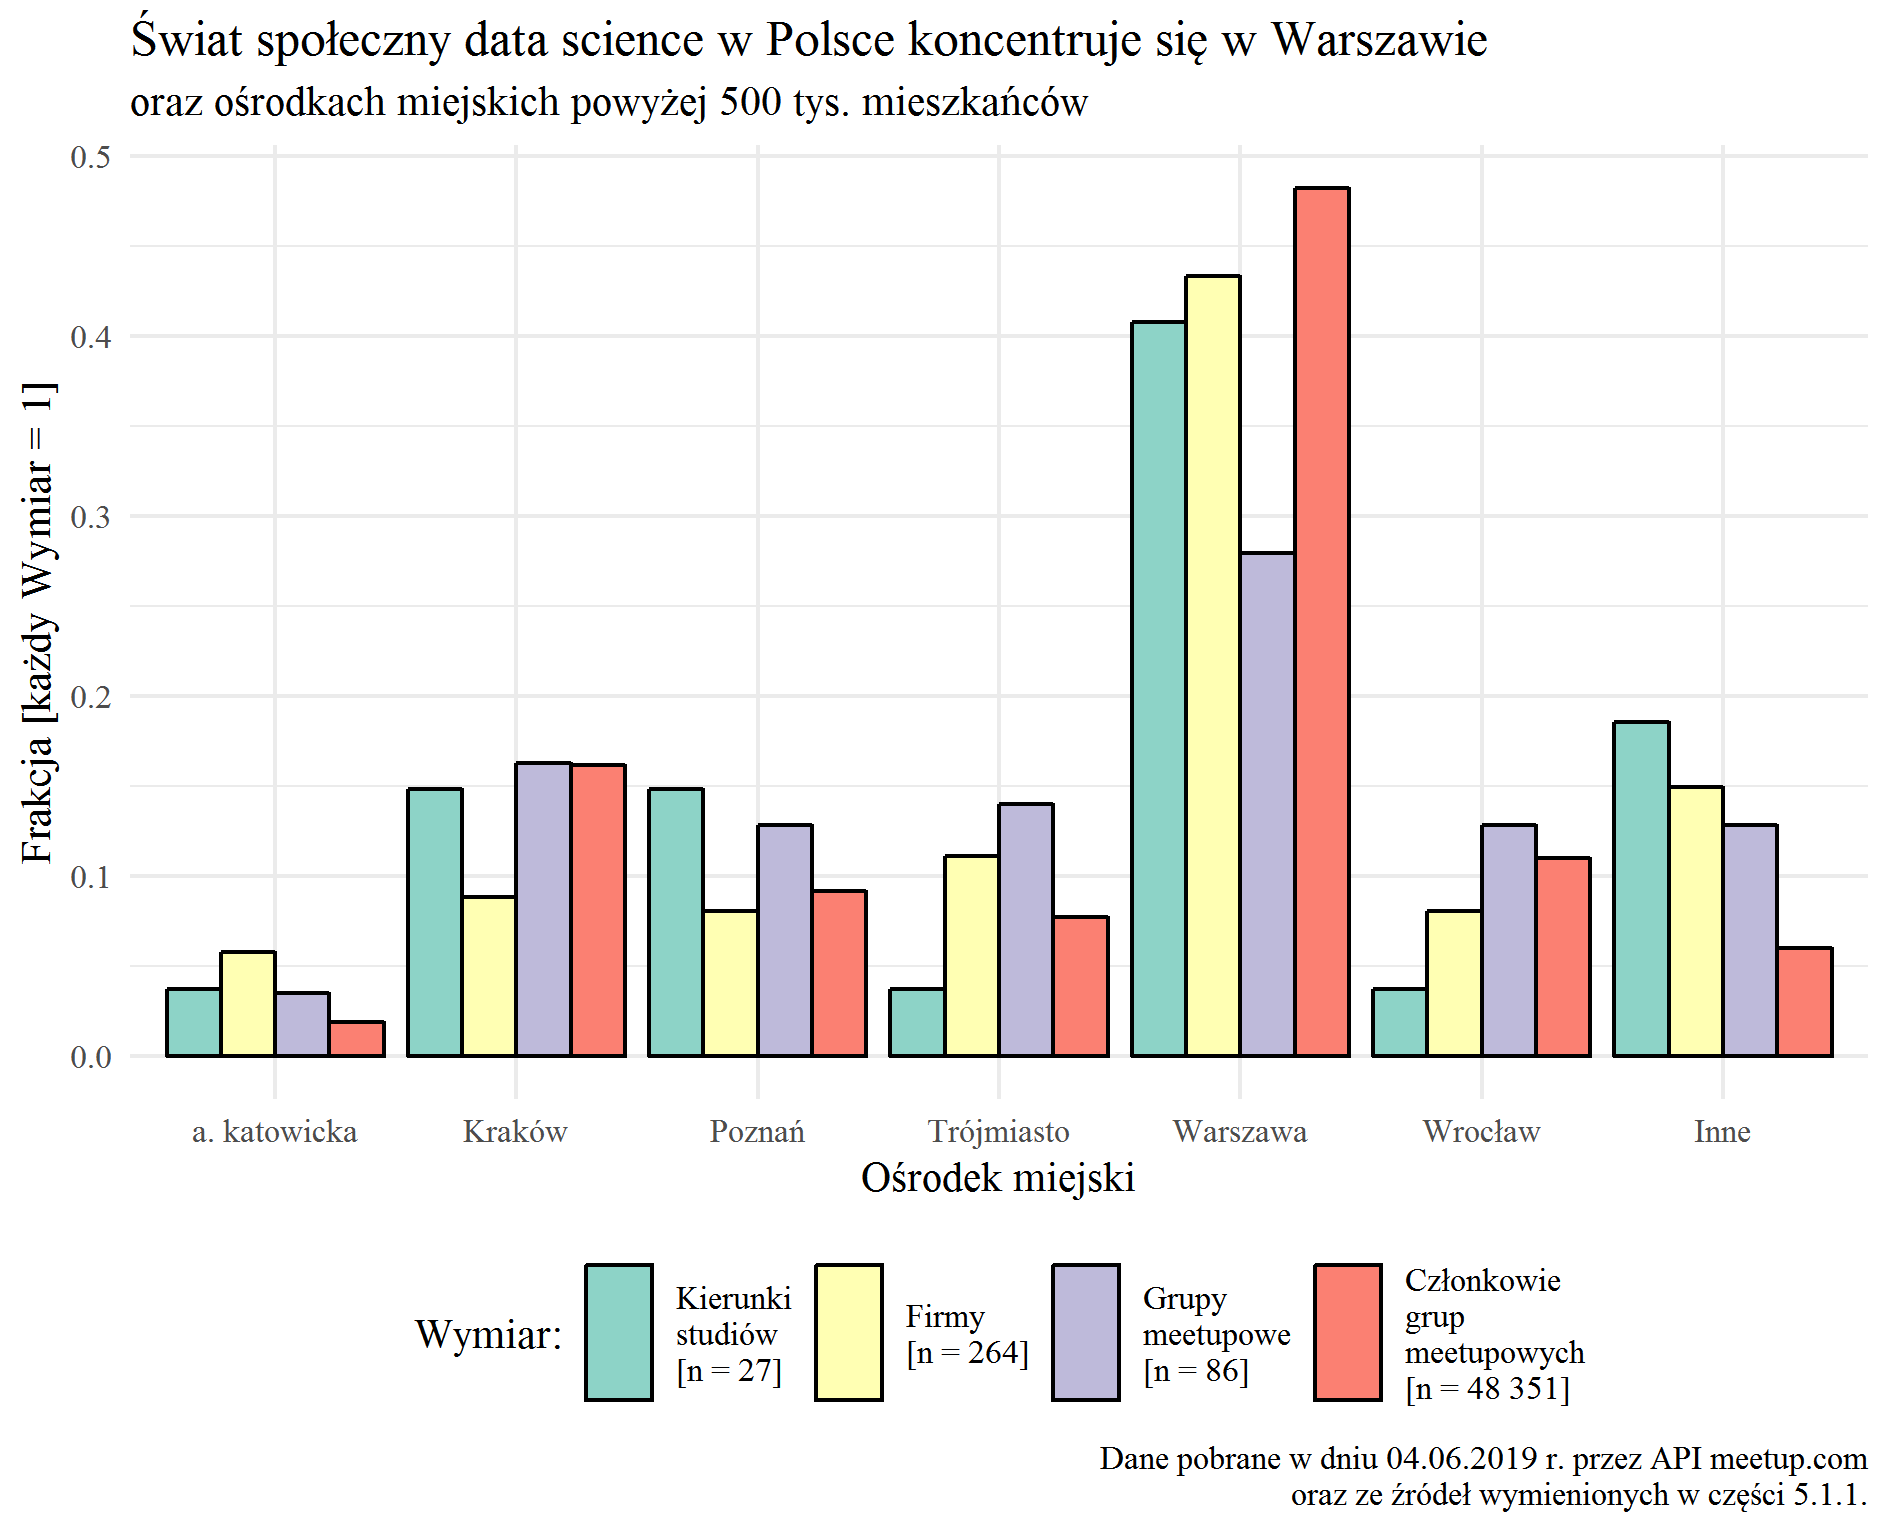
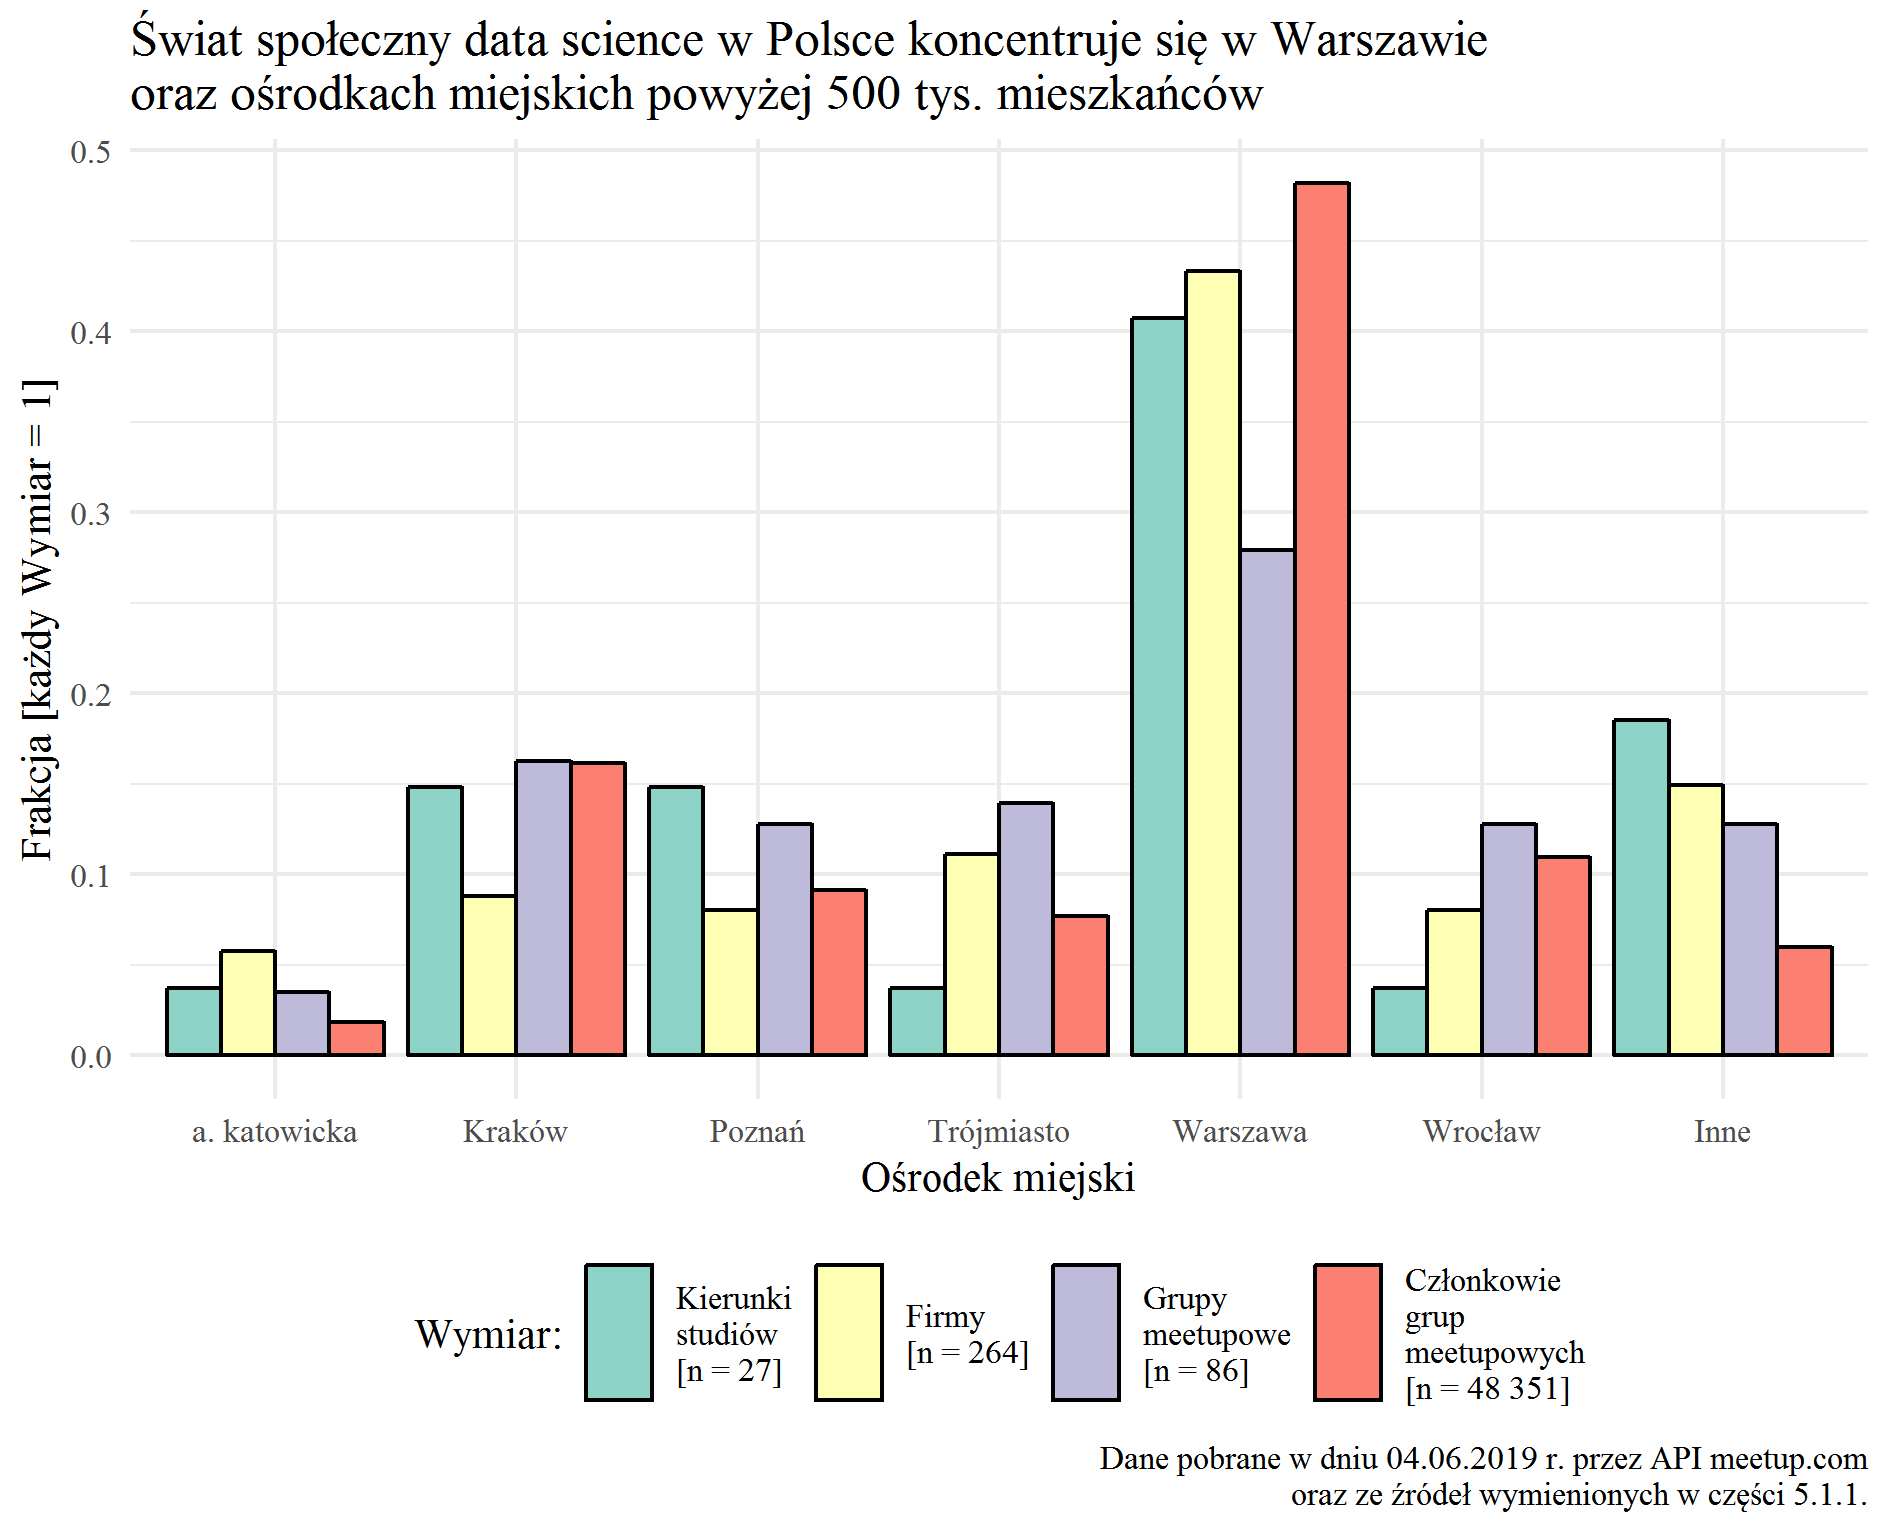
fix titles / subtitles

diff --git a/all_viz.tex b/all_viz.tex
@@ -1,0 +1,267 @@
+\documentclass[]{article}
+\usepackage{lmodern}
+\usepackage{amssymb,amsmath}
+\usepackage{ifxetex,ifluatex}
+\usepackage{fixltx2e} % provides \textsubscript
+\ifnum 0\ifxetex 1\fi\ifluatex 1\fi=0 % if pdftex
+  \usepackage[T1]{fontenc}
+  \usepackage[utf8]{inputenc}
+\else % if luatex or xelatex
+  \ifxetex
+    \usepackage{mathspec}
+  \else
+    \usepackage{fontspec}
+  \fi
+  \defaultfontfeatures{Ligatures=TeX,Scale=MatchLowercase}
+\fi
+% use upquote if available, for straight quotes in verbatim environments
+\IfFileExists{upquote.sty}{\usepackage{upquote}}{}
+% use microtype if available
+\IfFileExists{microtype.sty}{%
+\usepackage{microtype}
+\UseMicrotypeSet[protrusion]{basicmath} % disable protrusion for tt fonts
+}{}
+\usepackage[margin=1in]{geometry}
+\usepackage{hyperref}
+\hypersetup{unicode=true,
+            pdftitle={Meetupy data science w Polsce. Stan na 2019-06-04},
+            pdfborder={0 0 0},
+            breaklinks=true}
+\urlstyle{same}  % don't use monospace font for urls
+\usepackage{color}
+\usepackage{fancyvrb}
+\newcommand{\VerbBar}{|}
+\newcommand{\VERB}{\Verb[commandchars=\\\{\}]}
+\DefineVerbatimEnvironment{Highlighting}{Verbatim}{commandchars=\\\{\}}
+% Add ',fontsize=\small' for more characters per line
+\usepackage{framed}
+\definecolor{shadecolor}{RGB}{248,248,248}
+\newenvironment{Shaded}{\begin{snugshade}}{\end{snugshade}}
+\newcommand{\AlertTok}[1]{\textcolor[rgb]{0.94,0.16,0.16}{#1}}
+\newcommand{\AnnotationTok}[1]{\textcolor[rgb]{0.56,0.35,0.01}{\textbf{\textit{#1}}}}
+\newcommand{\AttributeTok}[1]{\textcolor[rgb]{0.77,0.63,0.00}{#1}}
+\newcommand{\BaseNTok}[1]{\textcolor[rgb]{0.00,0.00,0.81}{#1}}
+\newcommand{\BuiltInTok}[1]{#1}
+\newcommand{\CharTok}[1]{\textcolor[rgb]{0.31,0.60,0.02}{#1}}
+\newcommand{\CommentTok}[1]{\textcolor[rgb]{0.56,0.35,0.01}{\textit{#1}}}
+\newcommand{\CommentVarTok}[1]{\textcolor[rgb]{0.56,0.35,0.01}{\textbf{\textit{#1}}}}
+\newcommand{\ConstantTok}[1]{\textcolor[rgb]{0.00,0.00,0.00}{#1}}
+\newcommand{\ControlFlowTok}[1]{\textcolor[rgb]{0.13,0.29,0.53}{\textbf{#1}}}
+\newcommand{\DataTypeTok}[1]{\textcolor[rgb]{0.13,0.29,0.53}{#1}}
+\newcommand{\DecValTok}[1]{\textcolor[rgb]{0.00,0.00,0.81}{#1}}
+\newcommand{\DocumentationTok}[1]{\textcolor[rgb]{0.56,0.35,0.01}{\textbf{\textit{#1}}}}
+\newcommand{\ErrorTok}[1]{\textcolor[rgb]{0.64,0.00,0.00}{\textbf{#1}}}
+\newcommand{\ExtensionTok}[1]{#1}
+\newcommand{\FloatTok}[1]{\textcolor[rgb]{0.00,0.00,0.81}{#1}}
+\newcommand{\FunctionTok}[1]{\textcolor[rgb]{0.00,0.00,0.00}{#1}}
+\newcommand{\ImportTok}[1]{#1}
+\newcommand{\InformationTok}[1]{\textcolor[rgb]{0.56,0.35,0.01}{\textbf{\textit{#1}}}}
+\newcommand{\KeywordTok}[1]{\textcolor[rgb]{0.13,0.29,0.53}{\textbf{#1}}}
+\newcommand{\NormalTok}[1]{#1}
+\newcommand{\OperatorTok}[1]{\textcolor[rgb]{0.81,0.36,0.00}{\textbf{#1}}}
+\newcommand{\OtherTok}[1]{\textcolor[rgb]{0.56,0.35,0.01}{#1}}
+\newcommand{\PreprocessorTok}[1]{\textcolor[rgb]{0.56,0.35,0.01}{\textit{#1}}}
+\newcommand{\RegionMarkerTok}[1]{#1}
+\newcommand{\SpecialCharTok}[1]{\textcolor[rgb]{0.00,0.00,0.00}{#1}}
+\newcommand{\SpecialStringTok}[1]{\textcolor[rgb]{0.31,0.60,0.02}{#1}}
+\newcommand{\StringTok}[1]{\textcolor[rgb]{0.31,0.60,0.02}{#1}}
+\newcommand{\VariableTok}[1]{\textcolor[rgb]{0.00,0.00,0.00}{#1}}
+\newcommand{\VerbatimStringTok}[1]{\textcolor[rgb]{0.31,0.60,0.02}{#1}}
+\newcommand{\WarningTok}[1]{\textcolor[rgb]{0.56,0.35,0.01}{\textbf{\textit{#1}}}}
+\usepackage{graphicx,grffile}
+\makeatletter
+\def\maxwidth{\ifdim\Gin@nat@width>\linewidth\linewidth\else\Gin@nat@width\fi}
+\def\maxheight{\ifdim\Gin@nat@height>\textheight\textheight\else\Gin@nat@height\fi}
+\makeatother
+% Scale images if necessary, so that they will not overflow the page
+% margins by default, and it is still possible to overwrite the defaults
+% using explicit options in \includegraphics[width, height, ...]{}
+\setkeys{Gin}{width=\maxwidth,height=\maxheight,keepaspectratio}
+\IfFileExists{parskip.sty}{%
+\usepackage{parskip}
+}{% else
+\setlength{\parindent}{0pt}
+\setlength{\parskip}{6pt plus 2pt minus 1pt}
+}
+\setlength{\emergencystretch}{3em}  % prevent overfull lines
+\providecommand{\tightlist}{%
+  \setlength{\itemsep}{0pt}\setlength{\parskip}{0pt}}
+\setcounter{secnumdepth}{0}
+% Redefines (sub)paragraphs to behave more like sections
+\ifx\paragraph\undefined\else
+\let\oldparagraph\paragraph
+\renewcommand{\paragraph}[1]{\oldparagraph{#1}\mbox{}}
+\fi
+\ifx\subparagraph\undefined\else
+\let\oldsubparagraph\subparagraph
+\renewcommand{\subparagraph}[1]{\oldsubparagraph{#1}\mbox{}}
+\fi
+
+%%% Use protect on footnotes to avoid problems with footnotes in titles
+\let\rmarkdownfootnote\footnote%
+\def\footnote{\protect\rmarkdownfootnote}
+
+%%% Change title format to be more compact
+\usepackage{titling}
+
+% Create subtitle command for use in maketitle
+\providecommand{\subtitle}[1]{
+  \posttitle{
+    \begin{center}\large#1\end{center}
+    }
+}
+
+\setlength{\droptitle}{-2em}
+
+  \title{Meetupy data science w Polsce. Stan na 2019-06-04}
+    \pretitle{\vspace{\droptitle}\centering\huge}
+  \posttitle{\par}
+    \author{}
+    \preauthor{}\postauthor{}
+    \date{}
+    \predate{}\postdate{}
+  
+
+\begin{document}
+\maketitle
+
+To jest analiza 86 polskich grup meetupowych, które miały wpisany temat
+``data science'' na dzień 2019-06-04.
+
+Chcę pokazać meetupy w \textbf{przestrzeni} (1) i \textbf{czasie} (2).
+Idzie to do rozdziału, gdzie pokazuję też inne rzeczy poza meetupami,
+stąd wykres 1.1.
+
+\begin{center}\rule{0.5\linewidth}{\linethickness}\end{center}
+
+Dane pobrałem przez API meetup.com za pomocą pakietu w Pythonie. Kod i
+pliki .json są w /meetup\_api/.
+
+Pliki źródłowe zapisane do R w 1\_read\_json.R
+
+Złączenie danych zrobione w 2\_join.R
+
+\hypertarget{przestrzen}{%
+\subsection{1 - Przestrzeń}\label{przestrzen}}
+
+Kod w 3\_space\_viz.R
+
+Wykresy są zrobione pod strukturę i formatowanie pracy doktorskiej
+(rozdziały, A4, Times New Roman).
+
+\hypertarget{lokalizacja-dziaalnosci-swiata-spoecznego-data-science-w-polsce---firmy-studia-meetupy}{%
+\subsubsection{1.1. Lokalizacja działalności świata społecznego data
+science w Polsce - firmy, studia,
+meetupy}\label{lokalizacja-dziaalnosci-swiata-spoecznego-data-science-w-polsce---firmy-studia-meetupy}}
+
+\begin{Shaded}
+\begin{Highlighting}[]
+\KeywordTok{plot}\NormalTok{(groups_firms_edu)}
+\end{Highlighting}
+\end{Shaded}
+
+\includegraphics{all_viz_files/figure-latex/unnamed-chunk-1-1.pdf}
+
+\hypertarget{suma-czonkow-grup-meetupowych-data-science-i-ilosc-czonkow-na-grupe-w-podziale-na-12-polskich-miast}{%
+\subsubsection{1.2. Suma członków grup meetupowych data science i ilość
+członków na grupę w podziale na 12 polskich
+miast}\label{suma-czonkow-grup-meetupowych-data-science-i-ilosc-czonkow-na-grupe-w-podziale-na-12-polskich-miast}}
+
+\begin{Shaded}
+\begin{Highlighting}[]
+\KeywordTok{plot}\NormalTok{(map_bar)}
+\end{Highlighting}
+\end{Shaded}
+
+\includegraphics{all_viz_files/figure-latex/unnamed-chunk-2-1.pdf}
+
+\hypertarget{ilosc-czonkow-86-grup-meetupowych-w-podziale-na-dwanascie-polskich-miast}{%
+\subsubsection{1.3. Ilość członków 86 grup meetupowych w podziale na
+dwanaście polskich
+miast}\label{ilosc-czonkow-86-grup-meetupowych-w-podziale-na-dwanascie-polskich-miast}}
+
+\begin{Shaded}
+\begin{Highlighting}[]
+\KeywordTok{plot}\NormalTok{(lolli)}
+\end{Highlighting}
+\end{Shaded}
+
+\begin{verbatim}
+## Warning: Transformation introduced infinite values in continuous y-axis
+\end{verbatim}
+
+\includegraphics{all_viz_files/figure-latex/unnamed-chunk-3-1.pdf}
+
+\hypertarget{czas}{%
+\subsection{2 - Czas}\label{czas}}
+
+\hypertarget{powstawanie-grup-meetupowych-data-science-w-latach-2012---2019-do-czerwca}{%
+\subsubsection{2.1. Powstawanie grup meetupowych data science w latach
+2012 - 2019 (do
+czerwca)}\label{powstawanie-grup-meetupowych-data-science-w-latach-2012---2019-do-czerwca}}
+
+\begin{Shaded}
+\begin{Highlighting}[]
+\KeywordTok{plot}\NormalTok{(n_cumsum_year)}
+\end{Highlighting}
+\end{Shaded}
+
+\begin{verbatim}
+## Warning: Removed 1 rows containing missing values (geom_point).
+\end{verbatim}
+
+\begin{verbatim}
+## Warning: Removed 1 rows containing missing values (geom_segment).
+\end{verbatim}
+
+\includegraphics{all_viz_files/figure-latex/unnamed-chunk-4-1.pdf}
+
+\hypertarget{termin-powstania-86-grup-meetupowych-data-science-oraz-termin-zaplanowanego-spotkania-w-podziale-na-dwanascie-polskich-miast}{%
+\subsubsection{2.2. Termin powstania 86 grup meetupowych data science
+oraz termin zaplanowanego spotkania w podziale na dwanaście polskich
+miast}\label{termin-powstania-86-grup-meetupowych-data-science-oraz-termin-zaplanowanego-spotkania-w-podziale-na-dwanascie-polskich-miast}}
+
+\begin{Shaded}
+\begin{Highlighting}[]
+\KeywordTok{plot}\NormalTok{(next_event)}
+\end{Highlighting}
+\end{Shaded}
+
+\begin{verbatim}
+## Warning: Removed 69 rows containing missing values (geom_segment).
+\end{verbatim}
+
+\begin{verbatim}
+## Warning: Removed 69 rows containing missing values (geom_point).
+\end{verbatim}
+
+\includegraphics{all_viz_files/figure-latex/unnamed-chunk-5-1.pdf}
+
+\hypertarget{powstawanie-86-grup-meetupowych-data-science-w-podziale-na-dwanascie-polskich-miast-i-w-zaleznosc-od-czasu}{%
+\subsubsection{2.3. Powstawanie 86 grup meetupowych data science w
+podziale na dwanaście polskich miast i w zależność od
+czasu}\label{powstawanie-86-grup-meetupowych-data-science-w-podziale-na-dwanascie-polskich-miast-i-w-zaleznosc-od-czasu}}
+
+\begin{Shaded}
+\begin{Highlighting}[]
+\KeywordTok{plot}\NormalTok{(box_dif)}
+\end{Highlighting}
+\end{Shaded}
+
+\includegraphics{all_viz_files/figure-latex/unnamed-chunk-6-1.pdf}
+
+\hypertarget{wybrane-terminy-w-nazwach-86-grup-meetupowych-data-science-wedug-roku-powstania-grupy}{%
+\subsubsection{2.4. Wybrane terminy w nazwach 86 grup meetupowych data
+science według roku powstania
+grupy}\label{wybrane-terminy-w-nazwach-86-grup-meetupowych-data-science-wedug-roku-powstania-grupy}}
+
+\begin{Shaded}
+\begin{Highlighting}[]
+\KeywordTok{plot}\NormalTok{(names_time)}
+\end{Highlighting}
+\end{Shaded}
+
+\includegraphics{all_viz_files/figure-latex/unnamed-chunk-7-1.pdf}
+
+
+\end{document}
